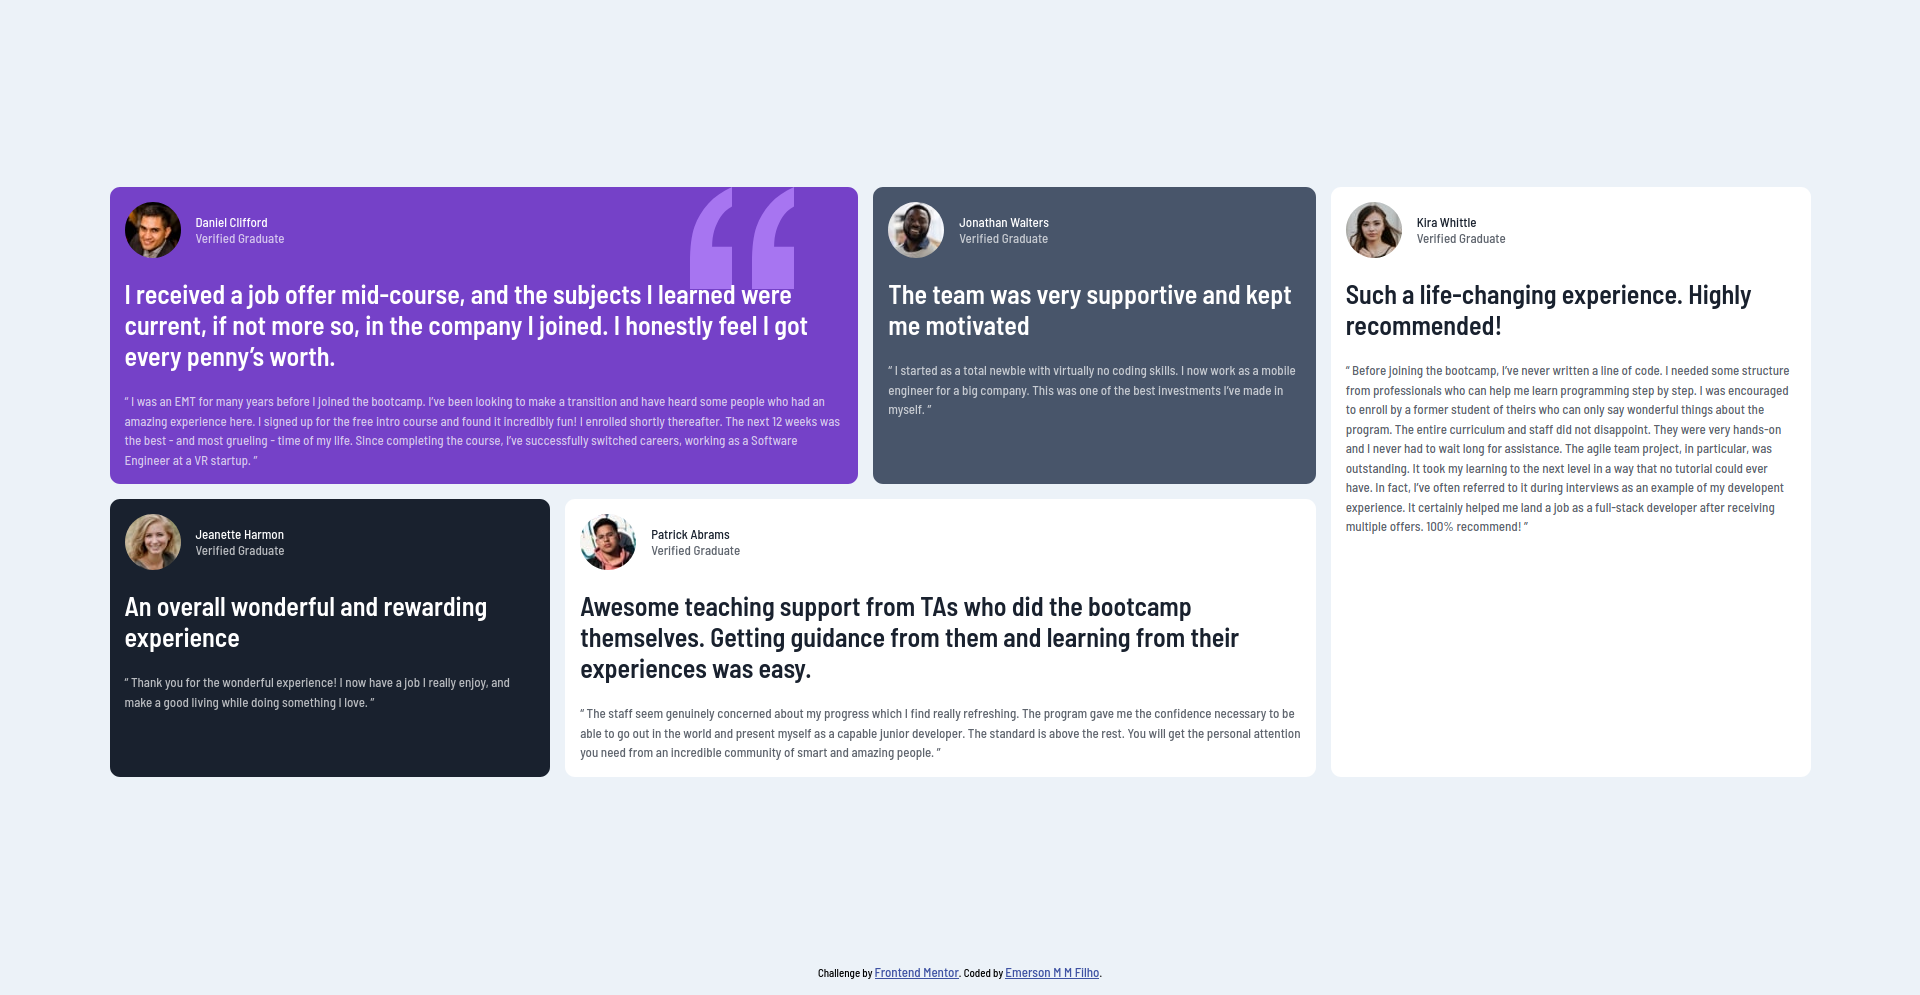
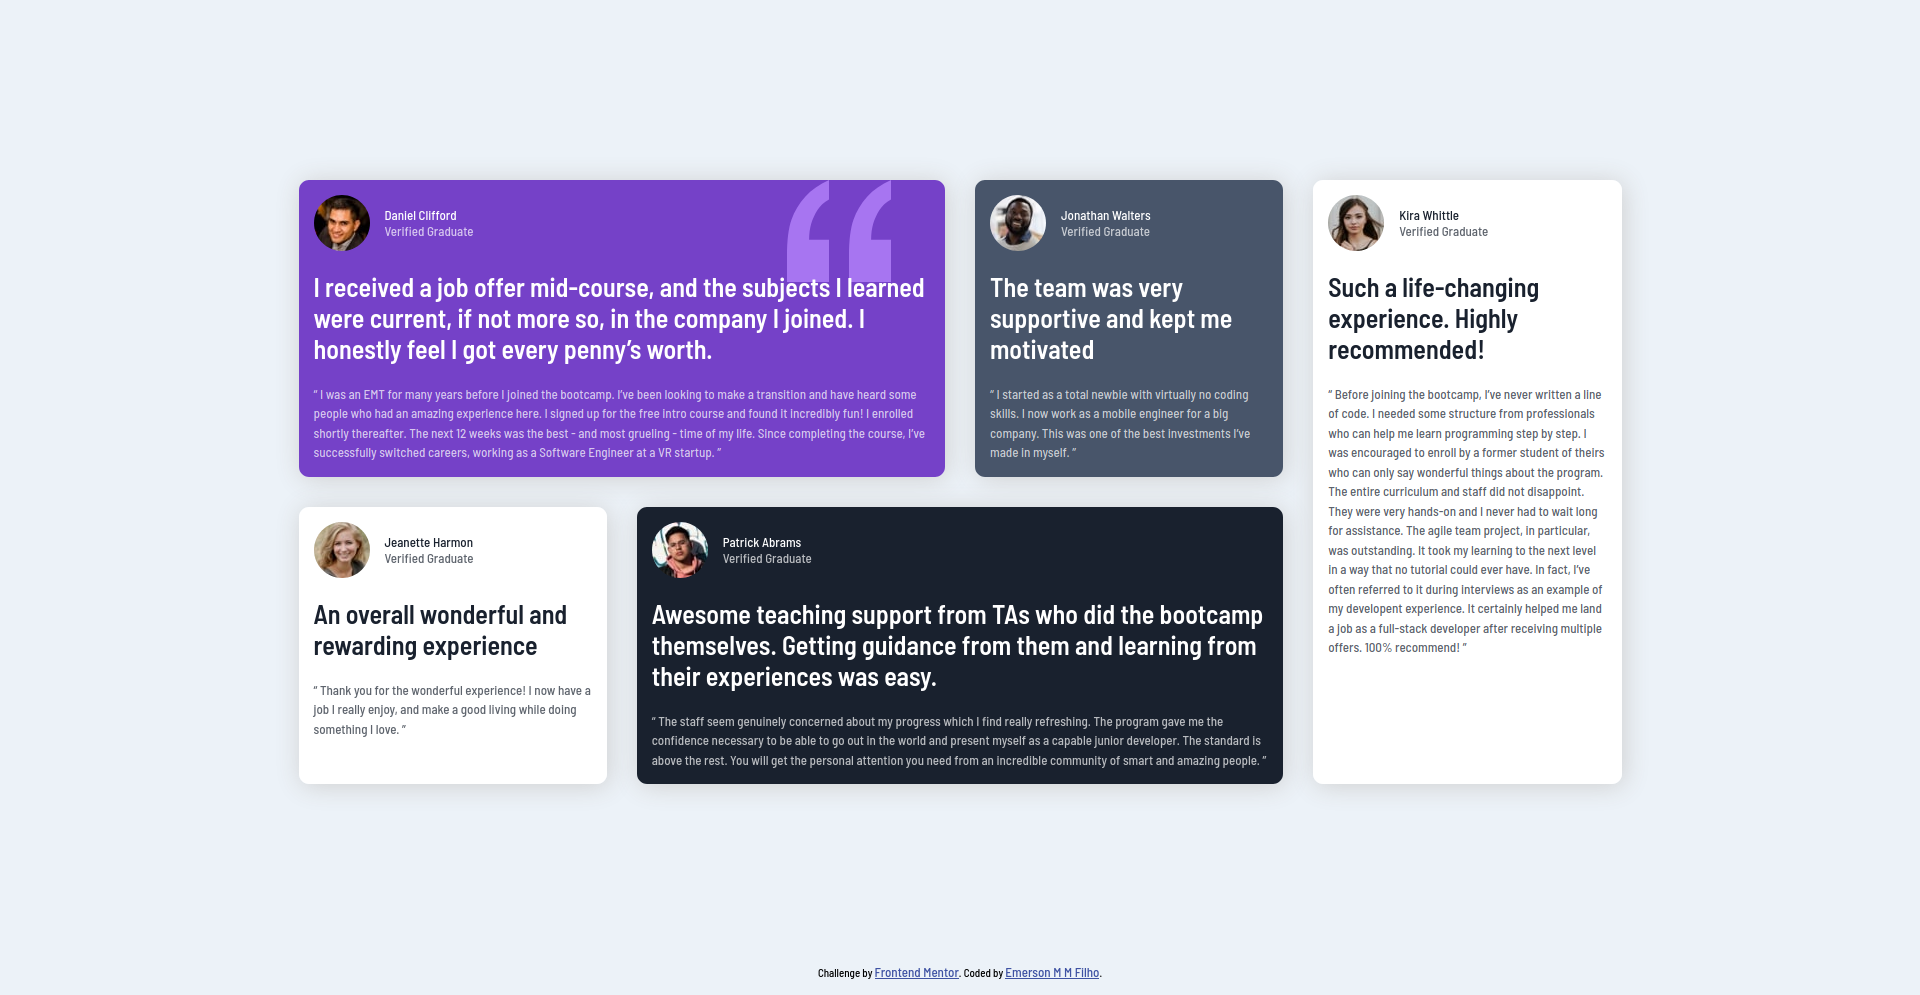
change site photos and update readme

Changed region(s): [[0.0312, 0.1558, 0.9375, 0.8101]]

diff --git a/README.md b/README.md
@@ -28,8 +28,8 @@ Users should be able to:
 
 ### Links
 
-- Solution URL: [Add solution URL here](https://github.com/Emerson-MM-Filho/Testimonials-grid-section)
-- Live Site URL: [Add live site URL here](https://emerson-mm-filho.github.io/Testimonials-grid-section/)
+- [Repository](https://github.com/Emerson-MM-Filho/Testimonials-grid-section)
+- [Live Site](https://emerson-mm-filho.github.io/Testimonials-grid-section/)
 
 ## My process
 
